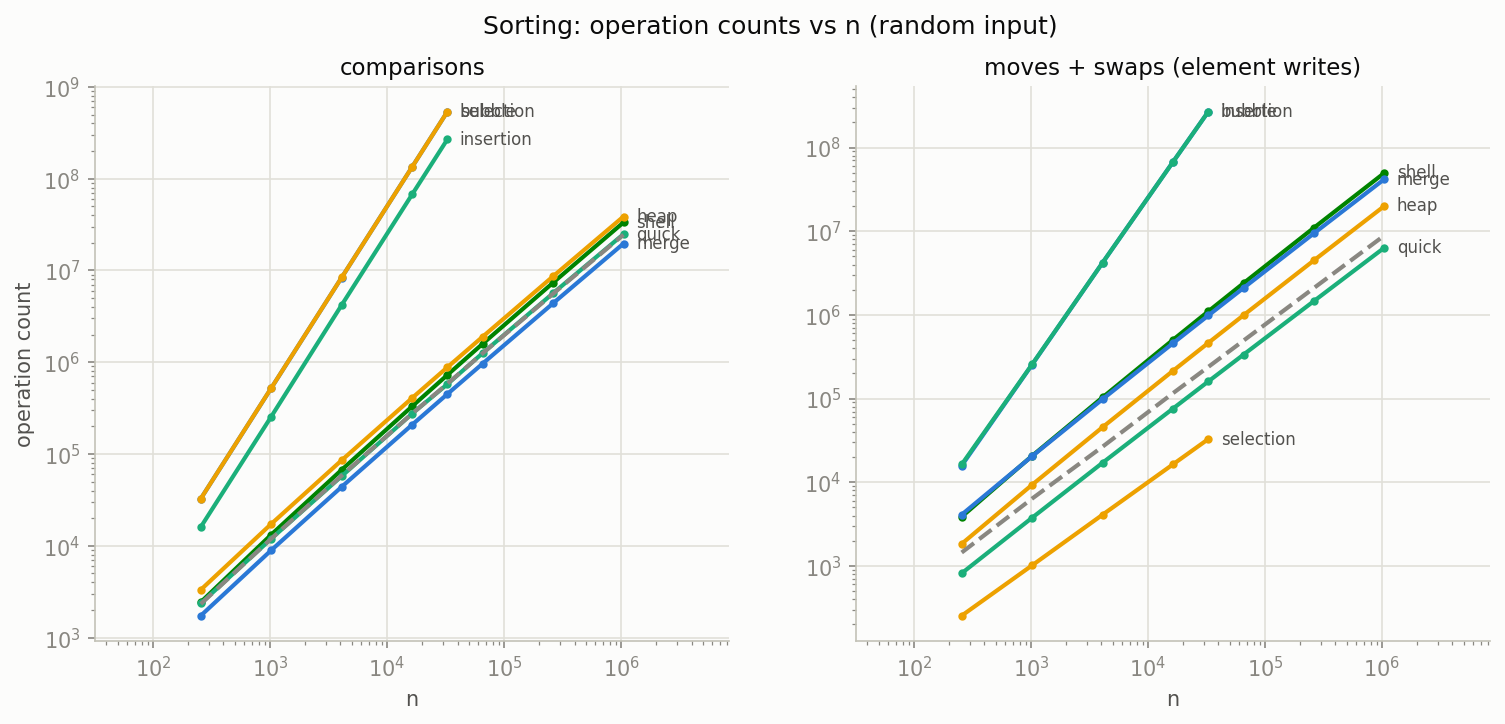
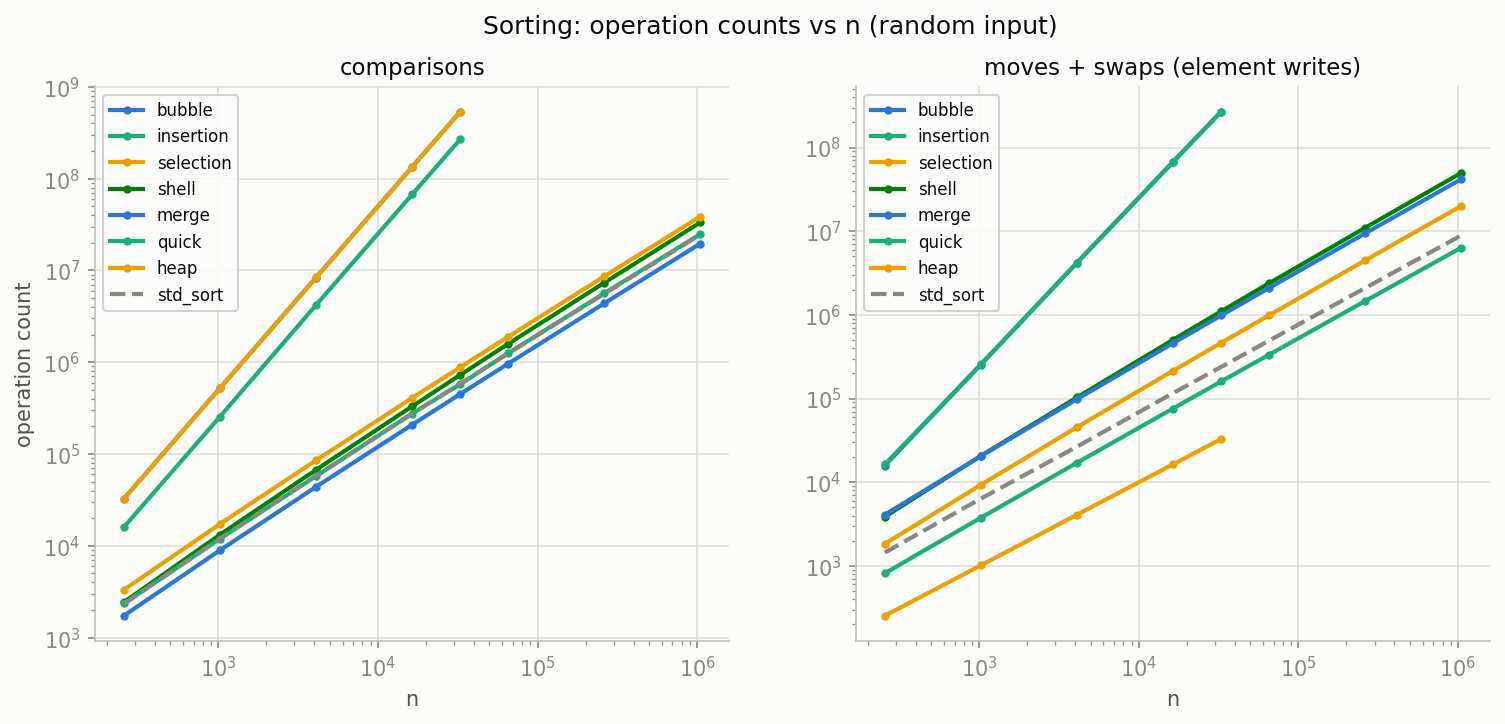
fix(cpp_algo_lab): replace colliding end labels with per-panel legends

diff --git a/cpp_algo_lab/scripts/plot_results.py b/cpp_algo_lab/scripts/plot_results.py
@@ -120,15 +120,14 @@ def plot_series(ax, sub: pd.DataFrame, algo: str, color: str, dashed: bool = Fal
     if s.empty:
         return
     n, y = s["n"].to_numpy(float), s["median_ms"].to_numpy(float)
-    ax.loglog(n, y, color=color, linestyle="--" if dashed else "-", marker="o", markersize=4)
-    ax.annotate(
-        f"{algo}{slope_label(n, y)}",
-        (n[-1], y[-1]),
-        textcoords="offset points",
-        xytext=(6, 0),
-        fontsize=8,
-        color=INK_2,
-        va="center",
+    ax.loglog(
+        n,
+        y,
+        color=color,
+        linestyle="--" if dashed else "-",
+        marker="o",
+        markersize=4,
+        label=f"{algo}{slope_label(n, y)}",
     )
 
 
@@ -144,7 +143,7 @@ def fig_time_vs_n(times: pd.DataFrame) -> None:
             plot_series(ax, sub, "std_stable_sort", BASELINE, dashed=True)
         ax.set_title(FAMILY_TITLES[fam], color=INK)
         ax.set_xlabel("n (elements)")
-        ax.margins(x=0.25)
+        ax.legend(fontsize=8, framealpha=0.9)
     axes[0].set_ylabel("median wall time [ms]")
     fig.suptitle(
         "Sorting: time vs n (random input, log-log) — slope ≈ complexity exponent", color=INK
@@ -237,23 +236,13 @@ def fig_ops(ops: pd.DataFrame) -> None:
             )
             n = s["n"].to_numpy(float)
             keep = y > 0
-            ax.loglog(n[keep], y[keep], color=COLOR[algo], marker="o", markersize=3)
-            if keep.any():
-                ax.annotate(
-                    algo,
-                    (n[keep][-1], y[keep][-1]),
-                    textcoords="offset points",
-                    xytext=(6, 0),
-                    fontsize=8,
-                    color=INK_2,
-                    va="center",
-                )
+            ax.loglog(n[keep], y[keep], color=COLOR[algo], marker="o", markersize=3, label=algo)
         s = sub[sub["algo"] == "std_sort"].sort_values("n")
         y = (s["comparisons"] if col == "comparisons" else s["moves"] + s["swaps"]).to_numpy(float)
-        ax.loglog(s["n"], y, color=MUTED, linestyle="--")
+        ax.loglog(s["n"], y, color=MUTED, linestyle="--", label="std_sort")
         ax.set_title(title, color=INK)
         ax.set_xlabel("n")
-        ax.margins(x=0.25)
+        ax.legend(fontsize=8, framealpha=0.9)
     axes[0].set_ylabel("operation count")
     fig.suptitle("Sorting: operation counts vs n (random input)", color=INK)
     save(fig, "ops_vs_n.png")
